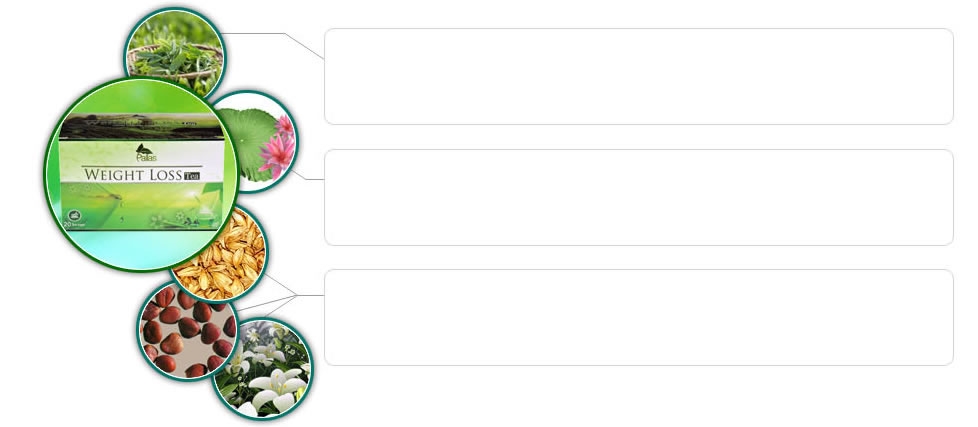
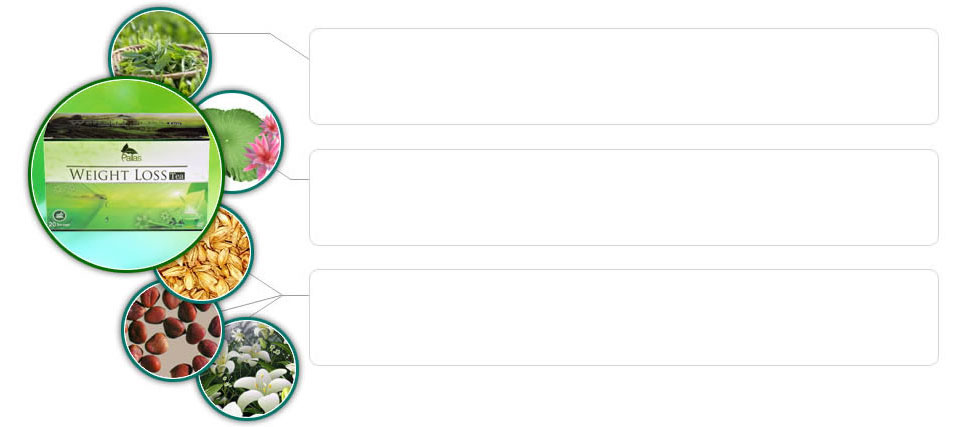
success_stories_meet

Changed region(s): [[0.0, 0.0, 0.3427, 1.0], [0.3115, 0.1218, 0.3427, 0.1522], [0.2804, 0.0913, 0.3115, 0.1218]]

diff --git a/skin/frontend/mercado/weight/css/styles.css b/skin/frontend/mercado/weight/css/styles.css
@@ -72,7 +72,7 @@ ul,ol         { list-style:none; }
 .page-empty { background:#fff; padding:20px; text-align:left; }
 .page-popup { background:#fff; padding:25px 30px; text-align:left; }
 .main-container {}
-.main {background:url(../images/body_bg_page.jpg) repeat-y 8px 10px ;  min-height:350px; margin: 0 0 0px 0; padding:0 0px 0px 30px; }
+.main {background:url(../images/body_bg_page.jpg) repeat-y 7px 10px ;  min-height:350px; margin: 0 0 0px 0; padding:0 0px 0px 30px; }
 
 /* Base Columns */
 .col-left { float:left; width: 220px; padding:0 0 1px; }
@@ -116,7 +116,7 @@ ul,ol         { list-style:none; }
 
 /* ======================================================================================= */
 
-.nav-container ul{ padding-left:10px;}
+.nav-container ul{ padding-left:11px;}
 .nav-container ul li{ float:left;}
 
 /* Global Styles ========================================================================= */
@@ -288,7 +288,7 @@ p.required { font-size:11px; text-align:right; color:#EB340A; }
 .breadcrumbs li strong {  color:#353535; font-weight: normal; }
 
 /* Page Heading */
-.page-title { width:100%; overflow:hidden; margin: 20px 0 16px; }
+.page-title { width:100%; overflow:hidden; padding-top:20px; margin: 0px 0 16px; }
 .page-title h1,
 .page-title h2 { font-size:23px; font-weight:normal; }
 .page-title .separator { margin:0 3px; }
@@ -747,9 +747,9 @@ span.currency-code { background-position: bottom center; }
 .products-grid li.item.last {  margin:40px 0 25px 0; }
 .products-grid li .moreinfo { padding:10px 20px 15px; }
 .products-grid li.last .product-image { border-right:0; }
-.products-grid .product-name { font-size:14px; text-align: center; margin:0 0 5px; }
+.products-grid .product-name { font-size:14px; text-align: left; padding-left:0px; margin:0 0 0px; }
 .products-grid .product-name a { color:#555555; text-decoration:none; }
-.products-grid .price-box { margin:3px 0; float: left; text-align: center; width: 95px; }
+.products-grid .price-box { margin:3px 0; float: left; text-align: left; width: 95px; }
 .products-grid .availability { line-height:21px; }
 .products-grid .ratings  { margin-bottom: 12px; }
 .products-grid .ratings .amount { display: none; }
@@ -995,7 +995,7 @@ button.btn-cart { float: right; background:url(../images/button_add_list.gif) no
 .product-collateral .product-tabs-content { padding: 15px 15px 20px; border: 1px solid #e3e3e3; }
 
 /* Product Images */
-.product-view .product-img-box { float:left; width: 390px; margin-right:20px; }
+.product-view .product-img-box {margin-top: 40px; float:left; width: 390px; margin-right:20px; }
 .col3-layout .product-view .product-img-box { float:none; margin:0 auto; }
 .product-view .product-img-box .product-image { margin:0 0 10px; border:1px solid #cacaca; }
 .product-view .product-img-box .product-image-zoom { position:relative; width:300px; height:300px; overflow:hidden; z-index:9; }
@@ -1304,7 +1304,7 @@ button.btn-cart { float: right; background:url(../images/button_add_list.gif) no
 .cart .shipping .form-list select { width: 300px; }
 
 /* Shopping Cart Totals */
-.cart .totals { }
+.cart .totals { margin-right:12px; }
 .cart .totals table { float:right; margin:0 0 8px; }
 .cart .totals td { padding:0 0 0 15px; }
 .cart .totals tr.last td {}
@@ -1947,7 +1947,7 @@ h1, h2, h3, h4, h5, h6, #nav > li > a > span, .product-tabs li a, .block .block-
 .tprev a:hover{ background:url("../images/next_icon1.jpg") no-repeat;}
 .main-image{ border:1px #E3E3E3 solid; width:390px;}
 
-#one-product-up{  width:525px; float:left;}
+#one-product-up{  width:525px; float:left;margin-top: 40px;}
 #one-product-up .product-shop{/*background:#eee;*/border:1px solid #ddd; margin-bottom:15px; width:100%;}
 .one-product-info{ padding:5px 5px 0 10px; background:#fff; width:97%; float:left; height: 385px;}
 .one-right-price{ width:26%; float:right; padding:10px 0px 0 5px;}
@@ -1993,7 +1993,7 @@ h1, h2, h3, h4, h5, h6, #nav > li > a > span, .product-tabs li a, .block .block-
 .bottom_list{ border-top:6px #ccc solid; margin-top:10px; height:270px; padding-top:15px;}
 .bottom_list_top ul li{ float:left; width:205px; height:240px; padding:20px 20px 0px 18px; border-left:1px #ccc solid;}
 li.nborder { border:none;}
-.bottom_list_img{text-align:center; margin-bottom:10px;}
+.bottom_list_img{text-align:center; height:80px; margin-bottom:10px;}
 .bottom_list_txt{ text-align:left;}
 
 .bottom_list_bot{ float:left; margin:20px 20px 0 20px; padding-top:15px; border-top:1px #ccc solid; text-align:left;}
@@ -2014,17 +2014,19 @@ li.nborder { border:none;}
 #banner-rotator{ margin:1px 0 0 -20px; }
 
 
-.hwork_main{ background: url(../images/work_bg.jpg) no-repeat; height:430px; width:980px; line-height:25px; text-align:left; color:#444; margin-top:15px;}
-.hwork_one{ float:right; margin:55px 25px 0 0; width:620px;}
-.hwork_two{ float:right; margin:70px 25px 0 0; width:620px;}
-.hwork_the{ float:right; margin:70px 25px 0 0; width:620px;}
+.hwork_main{ background: url(../images/work_bg.jpg) no-repeat; height:430px; width:970px; line-height:25px; text-align:left; color:#444; margin-top:0px;}
+.hwork_one{ float:right; margin:55px 25px 0 0; width:625px;}
+.hwork_two{ float:right; margin:70px 25px 0 0; width:625px;}
+.hwork_the{ float:right; margin:70px 25px 0 0; width:625px;}
 .hwork_title{ color:#007500; font-size:12px; font-weight:bold;}
 .hwork_content{ line-height:24px; text-align:left; margin:10px 25px 0px 0px;color:#444;}
 .hwork_bot{ margin-left:-15px; vertical-align:bottom;}
 .hwork_bot img{ width:219px; margin:10px 5px;}
 .ma8{ margin:8px 0;}
+.hwork_content h3{ color:#007500;}
+.hwork_content b{ color:#007500; font-weight:normal;}
 
-.suggest{ text-align:left; color:#444;margin-top: 20px;}
+.suggest{ text-align:left; color:#444;padding-top: 20px;}
 .suggest_title{}
 .suggest_content{ line-height:22px; margin-right:20px;}
 .suggest_bot{ margin-left:-15px; vertical-align:bottom;}
@@ -2052,19 +2054,19 @@ li.nborder { border:none;}
 .bodybmi{ color:#007500; font-size:16px; margin-bottom:20px;}
 
 
-.tea_ben{ margin-top:15px; color:#444;}
+.tea_ben{ padding-top:15px; color:#444;}
 .tea_ben_content{ text-align:left; line-height:22px; width:940px;}
 .tea_ben_content h3{ font-size:14px; font-weight:bold; color:#007500;}
 .tea_ben_left{ float:left; width:690px; }
 .tea_ben_right{ float:left; width:230px; margin-left:15px;}
 
-.pallas_story{ margin-top:15px; color:#444;}
+.pallas_story{ padding-top:15px; color:#444;}
 .pallas_story_cont{ width:940px;text-align:left; line-height:22px;}
 .pallas_story_cont h3{ font-size:14px; font-weight:bold; color:#007500;}
-.pallas_story_left{ float:left; margin-left:80px; width:800px; margin-right:20px;}
+.pallas_story_left{ float:left; margin-left:160px; width:640px; margin-right:20px;}
 
 .pallas_story_img{ text-align:center;}
-.pallas_story_img2{ margin:25px 0 15px; text-align:center; color:#007500;}
+.pallas_story_img2{ margin:0px 0 15px; text-align:center; color:#007500;}
 .pallas_story_img3{ margin-left:158px;text-align:center; color:#007500;}
 .pallas_story_img3 ul li{ float:left; margin:20px 10px; line-height:25px;}
 .pallas_story_img3 ul li img{ border:1px solid #ddd; padding:1px;}
@@ -2074,3 +2076,8 @@ li.nborder { border:none;}
 .use_cont ul{ padding-left:15px; margin-bottom:10px;}
 .use_cont ul li{ background:url(../images/icon_1.jpg) 0 5px no-repeat; text-indent:20px; line-height:25px;}
 .product-name a.listname{ color:#6291f1;}
+.shop_category{ padding-top:30px;}
+.shop_cate_title{ font-size:21px; border-bottom: 2px solid #669DCD;text-transform: uppercase; color: #005CAB; margin-top:20px; margin-right:17px;}
+.shop_category img{ cursor:pointer;}
+.success_title{ line-height:25px; padding-top:10px;}
+.success_title_img{ margin:10px 0;}
